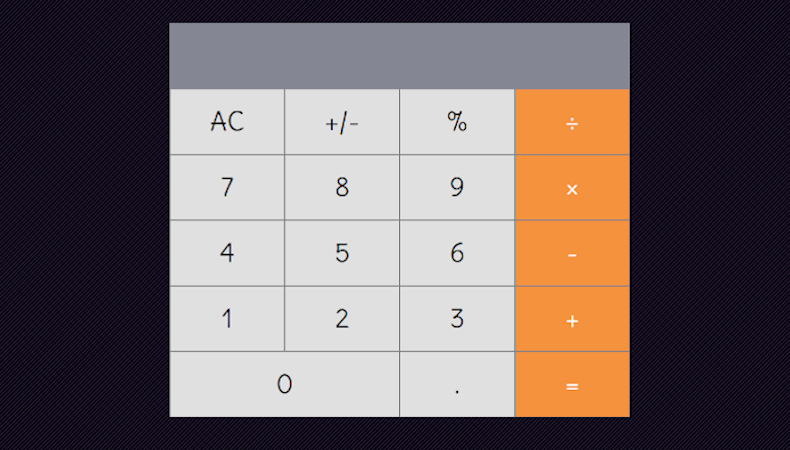
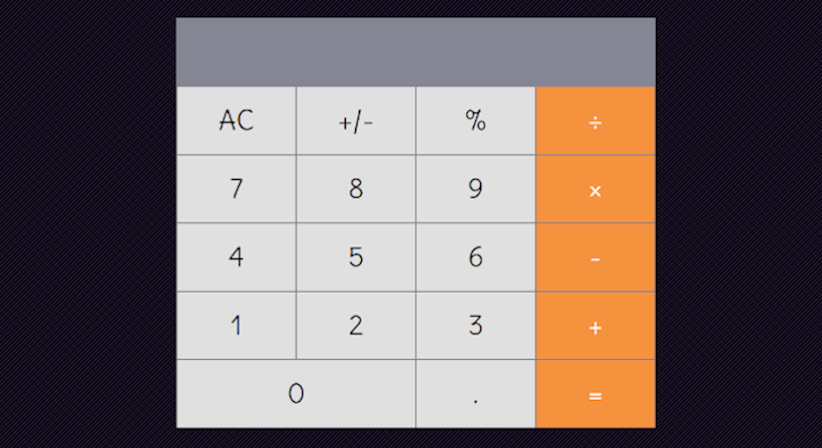
Rescale images so that they fill the the same areas in the project cards

diff --git a/index.html b/index.html
@@ -251,11 +251,23 @@
               <div class="card mb-4 shadow-lg bg-gradient">
                 <img src="img/todo-list.png" alt="project" class="bd-placeholder-img card-img-top w-100 h-100">
                 <div class="card-body">
-                  <p class="card-text font-weight-bold">This is a To-Do list app where users can add projects and their corresponding task lists they like to work on.<span class="badge badge-dark m-1">JavaScript</span><span class="badge badge-dark m-1">HTML5</span><span class="badge badge-dark m-1">CSS3</span><span class="badge badge-dark m-1">Bootstrap</span></p>
+                  <p class="card-text font-weight-bold">
+                    This is a To-Do list app where users can add projects and their corresponding task lists they like to work on.
+                    <span class="badge badge-dark m-1">JavaScript</span>
+                    <span class="badge badge-dark m-1">HTML5</span>
+                    <span class="badge badge-dark m-1">CSS3</span>
+                    <span class="badge badge-dark m-1">Bootstrap</span>
+                  </p>
                   <div class="d-flex justify-content-end align-items-center">
                     <div class="btn-group">
-                      <a class="btn btn-sm btn-outline-dark font-weight-bold d-flex  align-items-center" href="https://github.com/trekab/js-todo-app" target="_blank" rel="noopener"><i class="far fa-file-code"></i><span>GitHub</span></a>
-                      <a class="btn btn-sm btn-outline-dark font-weight-bold d-flex  align-items-center" href="https://trekab-js-todo-app.netlify.app/" target="_blank" rel="noopener"><i class="far fa-lightbulb"></i><span>Live Link</span></a>
+                      <a class="btn btn-sm btn-outline-dark font-weight-bold d-flex  align-items-center" href="https://github.com/trekab/js-todo-app" target="_blank" rel="noopener">
+                        <i class="far fa-file-code"></i>
+                        <span>GitHub</span>
+                      </a>
+                      <a class="btn btn-sm btn-outline-dark font-weight-bold d-flex  align-items-center" href="https://trekab-js-todo-app.netlify.app/" target="_blank" rel="noopener">
+                        <i class="far fa-lightbulb"></i>
+                        <span>Live Link</span>
+                      </a>
                     </div>                 
                   </div>
                 </div>
@@ -265,14 +277,23 @@
               <div class="card mb-4 shadow-lg bg-gradient">
                 <img src="img/react-calculator.png" alt="project" class="bd-placeholder-img card-img-top w-100 h-100">
                 <div class="card-body">
-                  <p class="card-text font-weight-bold">This is a simple calculator for Math-magicians Inc (a fictional company) using create-react-app.<span class="badge badge-dark m-1">JavaScript</span><span class="badge badge-dark m-1">React.js</span><span class="badge badge-dark m-1">CSS3</span>
+                  <p class="card-text font-weight-bold">
+                    This is a simple calculator for Math-magicians Inc (a fictional company) using create-react-app.<span class="badge badge-dark m-1">JavaScript</span>
+                    <span class="badge badge-dark m-1">React.js</span>
+                    <span class="badge badge-dark m-1">CSS3</span>
+                  </p>
                   <div class="d-flex justify-content-end align-items-center">
                     <div class="btn-group">
-                      <a class="btn btn-sm btn-outline-dark font-weight-bold d-flex  align-items-center" href="https://github.com/trekab/react-calculator" target="_blank" rel="noopener"><i class="far fa-file-code"></i><span>GitHub</span></a>
-                      <a class="btn btn-sm btn-outline-dark font-weight-bold d-flex  align-items-center" href="https://trekabs-react-calculator.netlify.app/" target="_blank" rel="noopener"><i class="far fa-lightbulb"></i><span>Live Link</span></a>
+                      <a class="btn btn-sm btn-outline-dark font-weight-bold d-flex  align-items-center" href="https://github.com/trekab/react-calculator" target="_blank" rel="noopener">
+                        <i class="far fa-file-code"></i>
+                        <span>GitHub</span>
+                      </a>
+                      <a class="btn btn-sm btn-outline-dark font-weight-bold d-flex  align-items-center" href="https://trekabs-react-calculator.netlify.app/" target="_blank" rel="noopener">
+                        <i class="far fa-lightbulb"></i>
+                        <span>Live Link</span>
+                      </a>
                     </div>
-                  </div>
-                  </p>
+                  </div>                  
                 </div>
               </div>
             </div>
@@ -308,11 +329,22 @@
               <div class="card mb-4 shadow-lg bg-gradient">
                 <img src="img/uhost.png" alt="project" class="bd-placeholder-img card-img-top w-100 h-100">
                 <div class="card-body">
-                  <p class="card-text font-weight-bold">In this project, I built a website for a fictional hosting company, as a means of practicing the most important CSS concepts.<span class="badge badge-dark m-1">HTML5</span><span class="badge badge-dark m-1">CSS3</span><span class="badge badge-dark m-1">JavaScript</span></p>
+                  <p class="card-text font-weight-bold">
+                    In this project, I built a website for a fictional hosting company, as a means of practicing the most important CSS concepts.
+                    <span class="badge badge-dark m-1">HTML5</span>
+                    <span class="badge badge-dark m-1">CSS3</span>
+                    <span class="badge badge-dark m-1">JavaScript</span>
+                  </p>
                   <div class="d-flex justify-content-end align-items-center">
                     <div class="btn-group">
-                      <a class="btn btn-sm btn-outline-dark font-weight-bold d-flex  align-items-center" href="https://github.com/trekab/uHost" target="_blank" rel="noopener"><i class="far fa-file-code"></i><span>GitHub</span></a>
-                      <a class="btn btn-sm btn-outline-dark font-weight-bold d-flex  align-items-center" href="https://trekab.github.io/uHost/" target="_blank" rel="noopener"><i class="far fa-lightbulb"></i><span>Live Link</span></a>
+                      <a class="btn btn-sm btn-outline-dark font-weight-bold d-flex  align-items-center" href="https://github.com/trekab/uHost" target="_blank" rel="noopener">
+                        <i class="far fa-file-code"></i>
+                        <span>GitHub</span>
+                      </a>
+                      <a class="btn btn-sm btn-outline-dark font-weight-bold d-flex  align-items-center" href="https://trekab.github.io/uHost/" target="_blank" rel="noopener">
+                        <i class="far fa-lightbulb"></i>
+                        <span>Live Link</span>
+                      </a>
                     </div>
                   </div>
                 </div>
